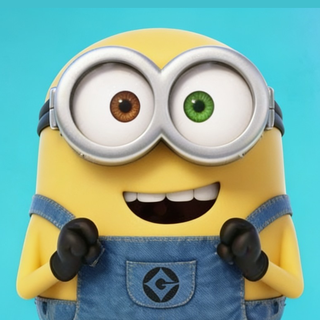
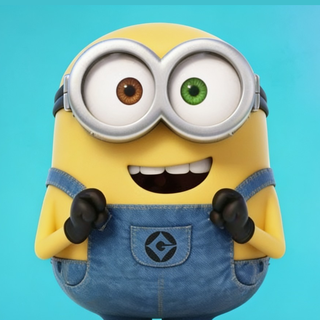
Ease Rob portrait zoom to a midpoint bust crop.

diff --git a/index.html b/index.html
@@ -294,7 +294,7 @@
               </p>
             </article>
             <article class="character-window location-baltimore-only">
-              <img src="./assets/characters/goggle-pal.png?v=bust5" alt="The Goggle Pal (Rob) character portrait" />
+              <img src="./assets/characters/goggle-pal.png?v=bust6" alt="The Goggle Pal (Rob) character portrait" />
               <h3>The Goggle Pal (Rob)</h3>
               <p>
                 The shorter, extra-excited sidekick. Rob brings giggles, hugs, and nonstop party energy
